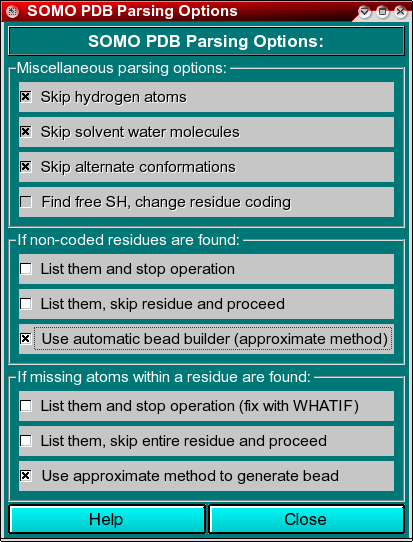
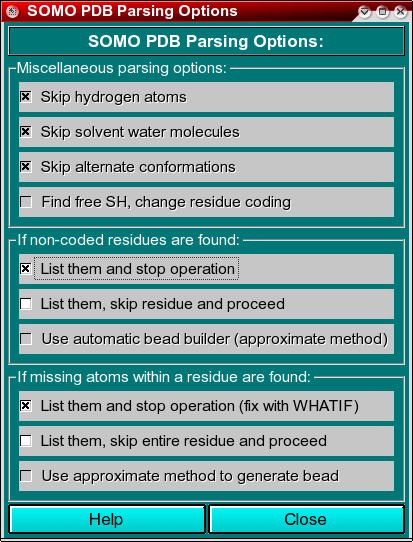
Mattia's latest doc updates

diff --git a/doc/manual/somo_pdb_parsing.html b/doc/manual/somo_pdb_parsing.html
@@ -101,15 +101,15 @@ The next two subpanels deal with non-coded residues and missing atoms, respectiv
 
 
 <p>
-In the <b>If non-coded residues are found:</b> subpanel, the user can choose between three
-options:
+In the <b>If non-coded residues are found:</b> subpanel, the user will be able to choose between three
+options, but <b>only the first two</b> are presently available:
 
 <ul>
 <li>
 <b><i>List them and stop operation</i></b>. This is the most rigorous option, and calls for
 properly define the "new" residue in the <i>somo.residue</i> (and in the <i>somo.atom</i>, if
 "new" atoms are also present) file(s). The program is therefore halted, waiting for proper action
-to be taken.
+to be taken. Presently, this is the <b>default</b> option for this subpanel.
 
 <li>
 <b><i>List them, skip residue and proceed</i></b>. This is the least rigorous option, as skipping
@@ -118,22 +118,32 @@ their contribution to the hydrodynamics will be missed. Second, their contributi
 weight and partial specific volume of the structure will be also missed, although this can be
 bypassed by entering global values in the appropriate fields (respectively in the
 <a href=somo_hydro.html><b><i>SOMO Hydrodynamic Calculation Options</i></b></a> and
-<a href=somo_misc.html><b><i>Miscellaneous Options</i></b></a> panels). Therefore, this option should be used only if the skipped residue(s) is (are) known to <b>not</b> likely contribute to the hydrodynamics, and by entering appropriate global values for the molecular weight and partial specific volume. In any case, if non-coded residues
-are found and this option is selected, a pop-up window will appear asking for entering appropriate values
-for the global molecular weight and partial specific volume (this request can, however, be skipped).
+<a href=somo_misc.html><b><i>Miscellaneous Options</i></b></a> panels). Therefore, this option should be used only if the skipped residue(s) is (are) known to <b>not</b> likely contribute to the hydrodynamics, and by entering appropriate global values for the molecular weight and partial specific volume. Be aware, however, that the <i>total volume</i> of the bead model, used in the <i>Volume Correction</i>, will likely be <b>underestimated</b> (unless the skipped residues are all buried), thus affecting the computation of the <i>Rotational Diffusion Coefficient</i> and of the <i>Intrinsic Viscosity</i> (see <a href=somo_hydro.html>here</a> for more explanations on this subject).<br>
+In any case, if this option is selected, the pop-up window shown below will appear warning of the potential errors and suggesting to enter appropriate values for the global molecular weight and partial specific volume.
+</ul>
+</tr>
 
+<tr>
+<p>
+<td><center><img SRC="somo-warning1.png" ALT="Warning for skipping non-coded residues"></td>
+<p>
+</tr>
+
+<td align=justify>
+
+<ul>
 <li>
-<b><i>Use automatic bead builder (approximate method)</i></b>. This is a "patch" option, allowing
-to roughly define a <b>single</b> "side-chain" bead for each non-coded residue. This procedure is based on an "average" volume for each atom (with an "average" molecular weight and hydration number), from which a global volume (and molecular weight) is calculated. An "average" radius for each atom is
-also provided for the ASA routines (see <a href=somo_asa.html>here</a>). The bead is then placed at the center of mass of <b>all</b> the atoms within the non-coded residue, and an "average" partial specific volume and color-coding ("10", light green) are also assigned to it. All these "average" values can be modified in the <a href=somo_misc.html><b><i>Miscellaneous Options</i></b></a> panel. As with the second option, the approximations introduced in the molecular weight and partial specific volume can be bypassed by entering global values in the appropriate fields (respectively in the
-<a href=somo_hydro.html><b><i>SOMO Hydrodynamic Calculation Options</i></b></a> and
-<a href=somo_misc.html><b><i>Miscellaneous Options</i></b></a> panels). In any case, if non-coded residues
-are found and this option is selected, a pop-up window will appear asking for entering appropriate values
-for the global molecular weight and partial specific volume (this request can, however, be skipped).<br>
-This is the <b>default</b> option for this subpanel, since it will allow users to process virtually
+<b><i>Use automatic bead builder (approximate method)</i></b>. <i>NOT YET IMPLEMENTED</i><br>
+This is a "patch" option, allowing to roughly define a <b>single</b> "side-chain" bead for each non-coded residue. This procedure is based on an "average" volume for each atom (with an "average" molecular weight and hydration number), from which a global volume (and molecular weight) is calculated. An "average" radius for each atom is
+also provided for the ASA routines (see <a href=somo_asa.html>here</a>). The bead is then placed at the center of mass of <b>all</b> the atoms within the non-coded residue, and an "average" partial specific volume and color-coding ("10", light green) are also assigned to it. All these "average" values can be modified in the
+<a href=somo_misc.html><b><i>Miscellaneous Options</i></b></a> panel. As with the second option, the approximations introduced in the molecular weight and partial specific volume can be bypassed by entering global values in the appropriate fields (respectively in the
+<a href=somo_hydro.html><b><i>SOMO Hydrodynamic Calculation Options</i></b></a> and in the <a href=somo_misc.html><b><i>Miscellaneous Options</i></b></a> panels. In any case, a pop-up window will appear asking for entering appropriate values for the global molecular weight and partial specific volume, and prompting to check the approximate method parameters.<br>
+This will be the default option for this subpanel, since it will allow users to process virtually
 any PDB file without updating the definitions files.
 
 </ul>
+</tr>
+
 </td>
 </tr>
 </table>
@@ -151,25 +161,36 @@ any PDB file without updating the definitions files.
 
 
 <p>
-In the <b>If missing atoms within a residue are found:</b>  subpanel, the user can choose between three options:
+In the <b>If missing atoms within a residue are found:</b>  subpanel, the user will be able to choose between three
+options, but <b>only the first two</b> are presently available:
 
 <ul>
 <li>
 <b><i>List them and stop operation (fix it with WHATIF)</i></b>. This is the most rigorous option, and calls for either manually build the missing atoms in the PDB file, or, for proteins, to use an automatic missing atom(s) builder such as WHATIF (<a href="http://swift.cmbi.ru.nl/servers/html/index.html">http://swift.cmbi.ru.nl/servers/html/index.html</a>; WARNING: WHATIF will <b>not</b> build missing <b>main chain </b> atoms, only
-<b>side chain</b> atoms). The program is therefore halted, waiting for proper action to be taken.
+<b>side chain</b> atoms). The program is therefore halted, waiting for proper action to be taken. Presently, this is the <b>default</b> option for this subpanel.
 
 <li>
-<b><i>List them, skip entire residue and proceed</i></b>. This is the least rigorous option, as skipping residues will affect the computations on two levels. First, if the skipped residues are exposed, their contribution to the hydrodynamics will be missed. Second, their contribution to the molecular weight and partial specific volume of the structure will be also missed, although this
-can be bypassed by entering global values in the appropriate fields (respectively in the
-<a href=somo_hydro.html><b><i>SOMO Hydrodynamic Calculation Options</i></b></a> and
-<a href=somo_misc.html><b><i>Miscellaneous Options</i></b></a> panels). Therefore, this option
-should be used only if the skipped residue(s) is (are) known to <b>not</b> likely contribute to the hydrodynamics, and by entering appropriate global values for the molecular weight and partial specific volume. In any case, if this option is selected, and missing atoms within coded residues are found, a pop-up window will appear asking for entering appropriate values for the global molecular weight and partial specific volume (this request can, however, be skipped). The reason why only the missing atoms <b>cannot</b> be skipped is because they might be used to define the position of the bead, so their absence <b>cannot</b> be tolerated.
+<b><i>List them, skip entire residue and proceed</i></b>. This is the least rigorous option, as skipping residues will affect the computations on two levels. First, if the skipped residues are exposed, their contribution to the hydrodynamics will be missed. Second, their contribution to the molecular weight and partial specific volume of the structure will be also missed, although this can be bypassed by entering global values in the appropriate fields (respectively in the <a href=somo_hydro.html><b><i>SOMO Hydrodynamic Calculation Options</i></b></a> and
+<a href=somo_misc.html><b><i>Miscellaneous Options</i></b></a> panels). Therefore, this option should be used only if the skipped residue(s) is (are) known to <b>not</b> likely contribute to the hydrodynamics, and by entering appropriate global values for the molecular weight and partial specific volume. Be aware, however, that the <i>total volume</i> of the bead model, used in the <i>Volume Correction</i>, will then likely be <b>underestimated</b> (unless the skipped residues are all buried), thus affecting the computation of the <i>Rotational Diffusion Coefficient</i> and of the <i>Intrinsic Viscosity</i> (see <a href=somo_hydro.html>here</a> for more explanations on this subject).<br>
+In any case, if this option is selected, the pop-up window shown below will appear suggesting to enter appropriate values for the global molecular weight and partial specific volume. The reason why only the missing atoms <b>cannot</b> be skipped is because they might be used to define the position of the bead, so their absence <b>cannot</b> be tolerated.
+
+</ul>
+</tr>
+
+<tr>
+<p>
+<td><center><img SRC="somo-warning3.png" ALT="Warning for skipping non-coded residues"></td>
+<p>
+</tr>
+
+<td align=justify>
+
+<ul>
 
 <li>
-<b><i>Use approximate method to generate bead</i></b>. This is a "patch" option, allowing
-to roughly define a <b>single</b> bead for the whole residue. See the <b><i>Use automatic bead builder (approximate method)</i></b> above for the explanation of this procedure. As for the previous option, if this option is selected and missing atoms within a coded residue are found, a pop-up window will appear asking for entering appropriate values for the global molecular weight and partial specific volume (this request can, however, be skipped).<br>
-This is the <b>defaut</b> option for this subpanel, since it will allow users to process virtually
-any PDB file without updating the definitions files, but for more accurate results we <b>strongly</b> recommend to switch to the first option in this subpanel and take appropriate action(s).
+<b><i>Use approximate method to generate bead</i></b>. <i>NOT YET IMPLEMENTED</i><br>
+This is a "patch" option, allowing to roughly define a <b>single</b> bead for the whole residue. See the <b><i>Use automatic bead builder (approximate method)</i></b> above for the explanation of this procedure. The only relevant difference will be that the parameters used to define the <b>single</b> bead used to represent incomplete residues will be those of the atoms present in the residue, taken from the <i>somo.residue</i> file. As for the previous option, if this option is selected a pop-up window will appear asking for entering appropriate values for the global molecular weight and partial specific volume (this request can, however, be skipped).<br>
+This will be the defaut option for this subpanel, since it will allow users to process virtually any PDB file without updating the definitions files, but for more accurate results we <b>strongly</b> recommend to switch to the first option in this subpanel and take appropriate action(s).
 
 </ul>
 </td>

diff --git a/doc/manual/somo_grid.html b/doc/manual/somo_grid.html
@@ -27,7 +27,22 @@ SOMO - Grid Options Module:</h2>
 </center>
 <p>
 
-UNDER CONSTRUCTION
+This module controls the parameter of the <b>Build Grid Bead Model (AtoB)</b> routine, which is still under development at this stage.
+<p>
+In the <i>Computations Relative to:</i> section, the user selects if the coordinates of each bead built by the grid routine have to be placed in the <b>Center of Mass (default)</b> between all atoms whose centers fall within the cubelet, or in the <b>Center of Cubelet</b>. These options are obviously mutually exclusive.
+<p>
+The <i>Cube Side (Angstrom):</i> field determines the dimension of the grid cubelets (<b>default: 10 A</b>).
+<p>
+The next four independently selectable options controls other steps or feautures of the grid-based method:
+<p>
+<i>Apply Cubic Grid</i> allows the grid procedure to be executed (<b>deafult: active</b>). It could be deselected to allow the use of the Grid module for overlap removal of a previously loaded bead model.
+<p>
+<i>Remove Overlaps</i> allows the execution of the overlap removal routines (see <a
+href=somo_overlap.html>here</a>; <b>default: active</b>).
+<p>
+<i>Hydrate the Original Model</i>. This routine is <b>not</b> fully operational yet. It was developed by Marcelo Nollmann for his revision of the original AtoB program. More explanations will be provided once the routine will be fully implemented and tested.
+<p>
+Likewise, the <i>Expand Bead to Tangency</i> routine has not been fully implemented at this stage. The idea behind this procedure was to cope with the voids sometimes generated between beads by the Grid approach. More explanations will be provided once the routine will be fully implemented and tested.
 
 
 <hr>

diff --git a/doc/manual/somo.html b/doc/manual/somo.html
@@ -72,8 +72,10 @@ amino acids, nucleotides, carbohydrates, and common prosthetic groups and
 co-factors, but this list is by no means exhaustive, and the need to code for
 "new" residues is not a remote possibility. As this operation can be demanding,
 notwithstanding the user-friendly GUI governing it, the pre-defined set of options
-include an approximate method to deal with either missing atoms within coded residues,
-and/or not yet coded residues. However, be aware that for best performance, the structure
+<b>will</b> include an approximate method to deal with either missing atoms within coded residues,
+and/or not yet coded residues. In the present <b>beta1</b> release, an option is available
+to <b>skip</b> non-coded residues and/or coded residues with missing atoms (<b>not</b> the
+default option). However, be aware that for best performance, the structure
 should contain all residues and atoms that are present in the "real" macromolecule
 studied in solution, and all residues should be properly coded in the SOMO tables
 (see below).
@@ -284,7 +286,7 @@ parsing the PDB file and for the model(s) visualization by RasMol.
 <b>Parsing:</b> This module allows you to change the options to be used during
 the parsing of a PDB file, like how to deal with solvent molecules, explicit hydrogen
 atoms, alternate conformations, and with missing atoms/residues. A detailed description
-of this module can be found <a href=somo_parsing.html>here</a>. (Remark: some of the
+of this module can be found <a href=somo_pdb_parsing.html>here</a>. (Remark: some of the
 options listed are not presently active).
 
 <li>

diff --git a/doc/manual/somo_misc.html b/doc/manual/somo_misc.html
@@ -47,8 +47,7 @@ A<sup>3</sup>) water molecules (default: <b>24.041 A<sup>3</sup></b>). <br>
 In the <b>Average Parameters for Automatic Bead Builder:</b> submenu contains a
 series of fields governing the <i>average parameters</i> that will be used by the
 <i>Automatic Bead Builder</i> routine when this option is selected (see
-<a href=somo_pdb_parsing.html>here</a>) for either non-coded residues and/or for
-coded residues with missing atoms.<br> 
+<a href=somo_pdb_parsing.html>here</a>) for non-coded residues.<br> 
 
 <ul>
 <li>
